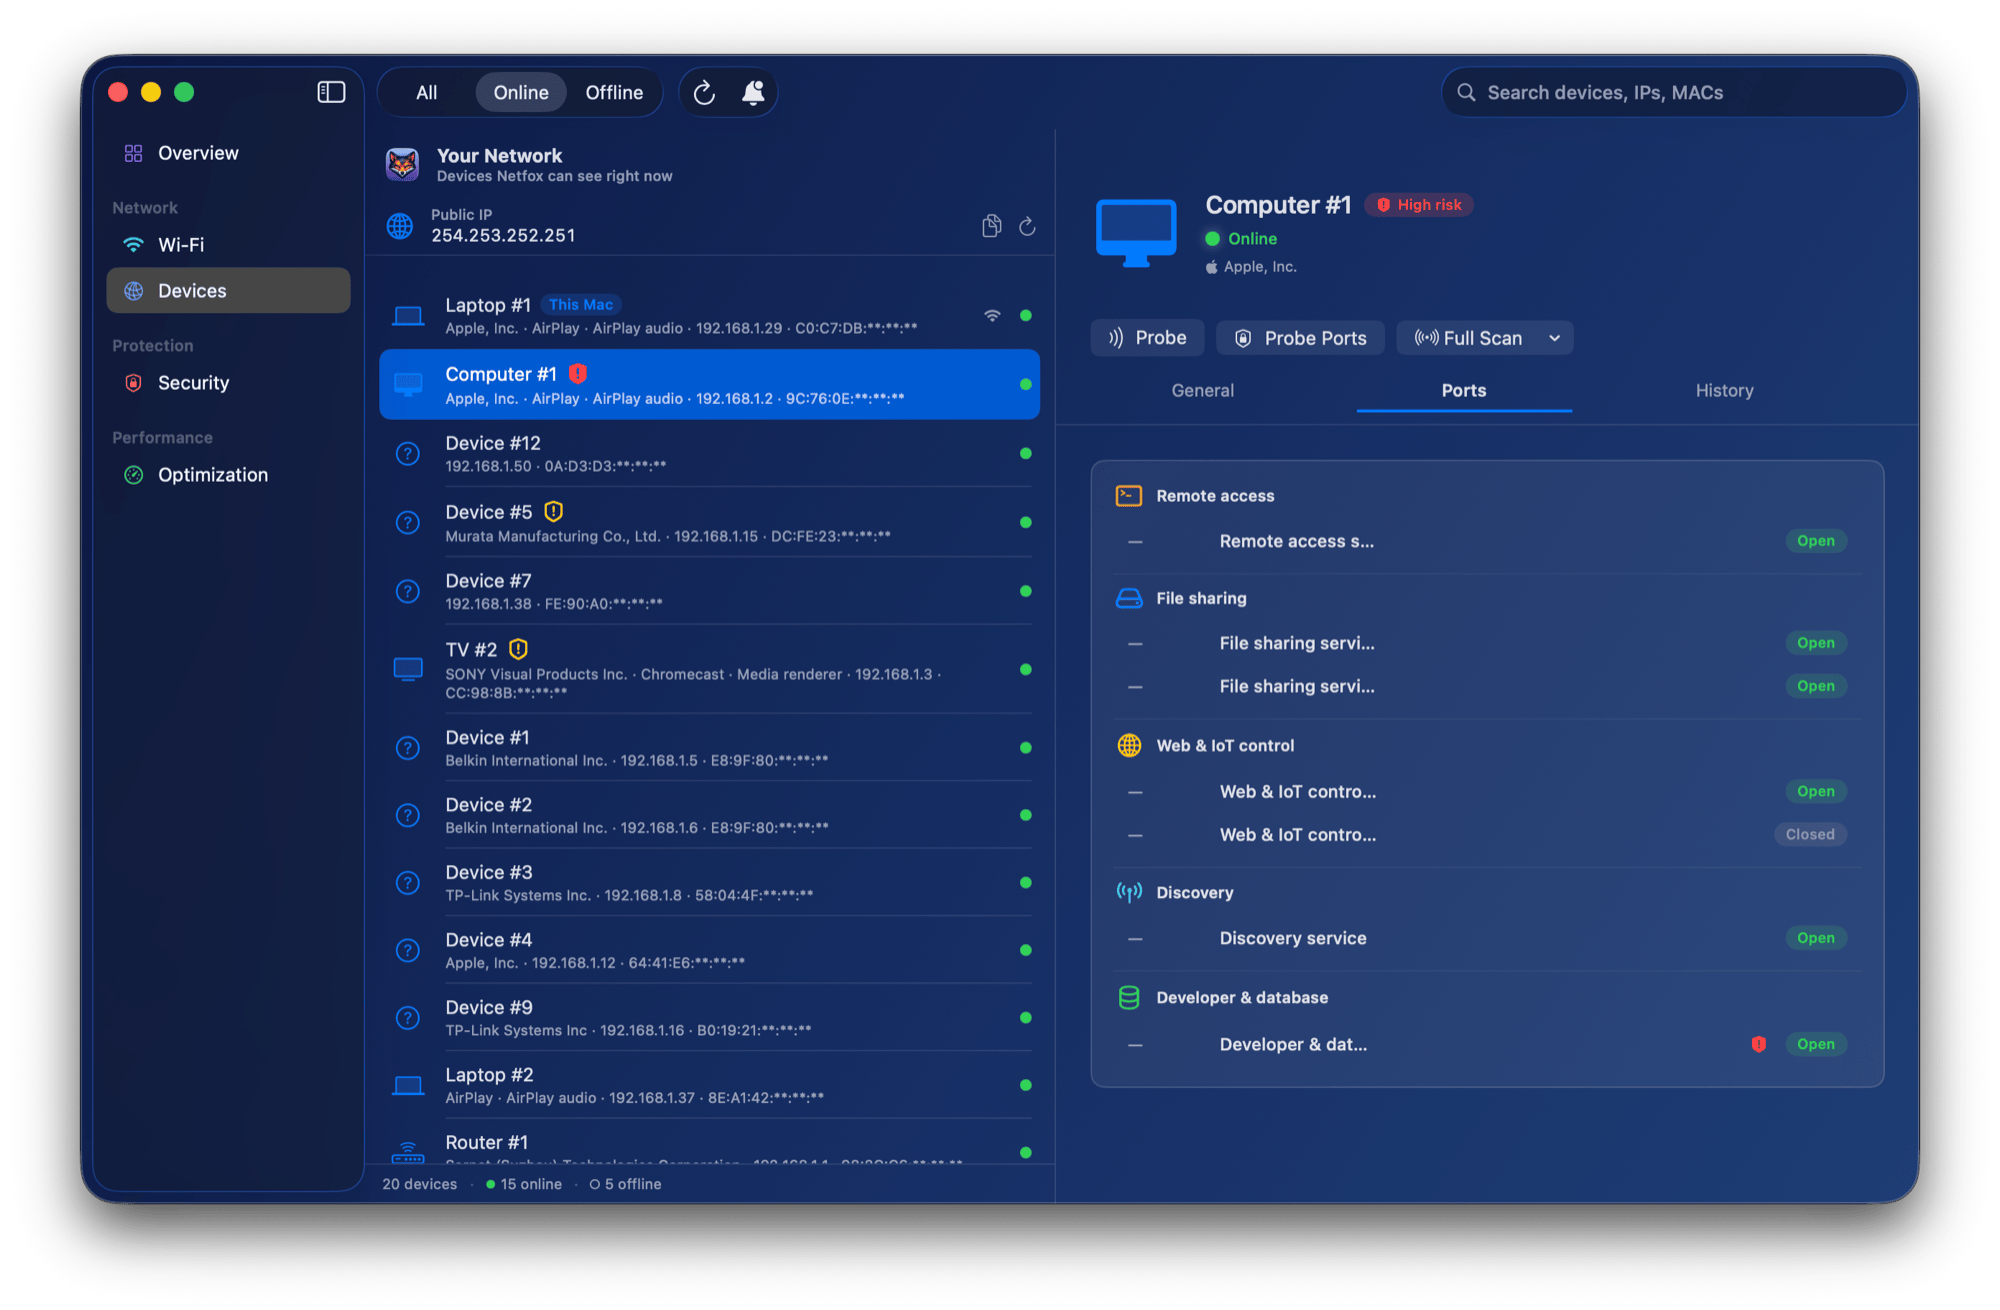
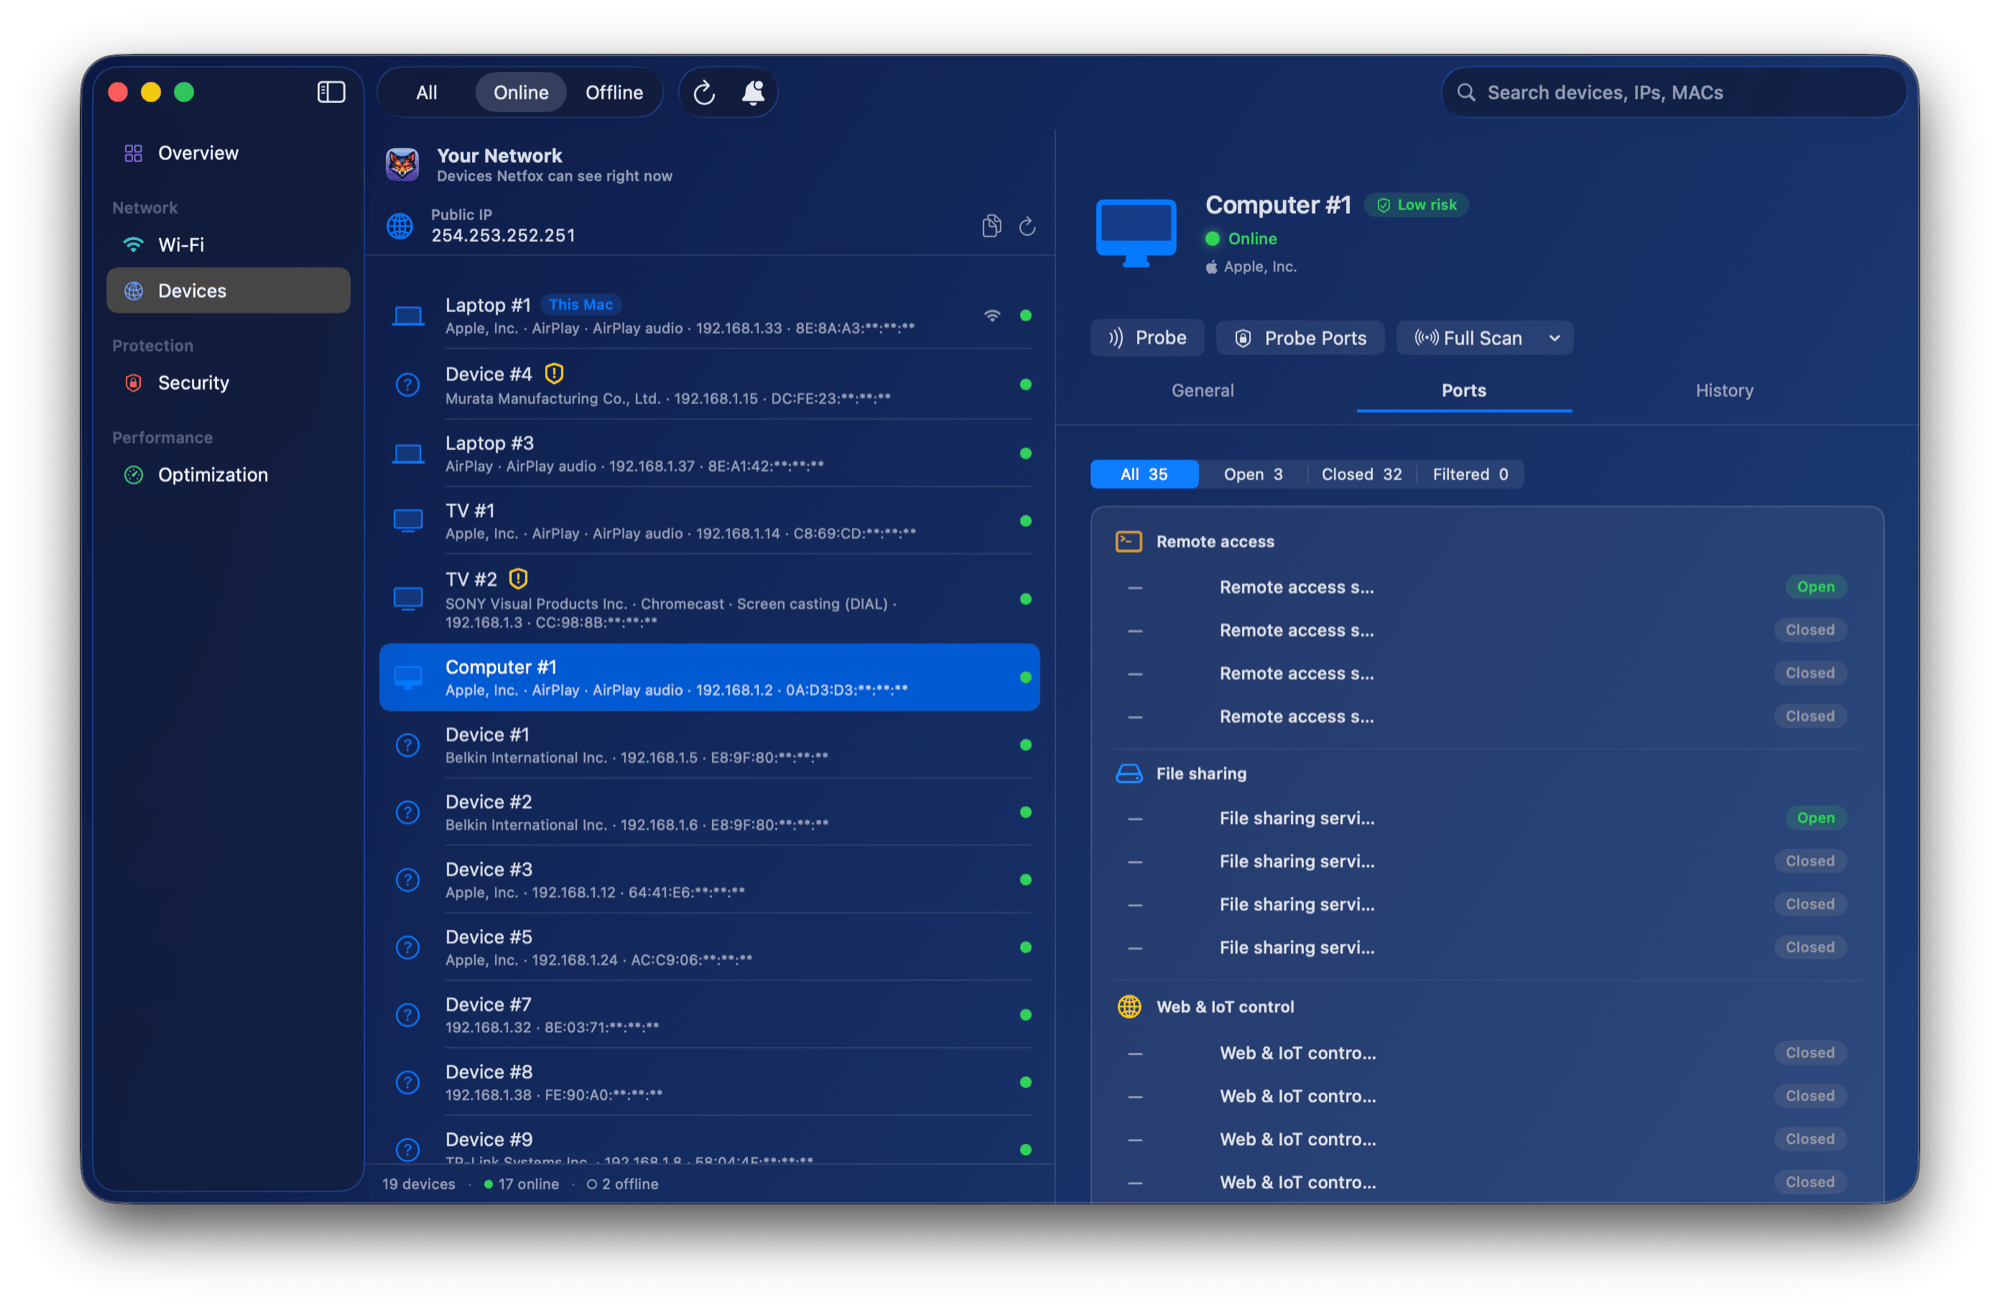
feat(sparkle): publish Netfox v0.16.2 to appcast

diff --git a/public/release-notes/0.16.2.html b/public/release-notes/0.16.2.html
@@ -1,0 +1,104 @@
+<!DOCTYPE html>
+<html lang="en">
+<head>
+<meta charset="utf-8">
+<meta name="viewport" content="width=device-width, initial-scale=1">
+<title>Netfox 0.16.2 — Release Notes</title>
+<style>
+  :root {
+    color-scheme: light dark;
+    --bg: #ffffff;
+    --fg: #1a1a1a;
+    --accent: #f76707;
+    --muted: #6b6b73;
+    --code-bg: #f4f4f5;
+    --border: rgba(0,0,0,0.12);
+  }
+  @media (prefers-color-scheme: dark) {
+    :root {
+      --bg: #1c1c1e;
+      --fg: #ececec;
+      --muted: #9c9ca5;
+      --code-bg: #2c2c2e;
+      --border: rgba(255,255,255,0.14);
+    }
+  }
+  * { box-sizing: border-box; }
+  body {
+    font: 14px/1.55 -apple-system, BlinkMacSystemFont, "SF Pro Text", "Helvetica Neue", sans-serif;
+    color: var(--fg);
+    background: var(--bg);
+    margin: 0 auto;
+    padding: 20px 24px 40px;
+    max-width: 720px;
+  }
+  header.page-header {
+    border-bottom: 1px solid var(--border);
+    padding-bottom: 14px;
+    margin-bottom: 22px;
+  }
+  header.page-header h1 { font-size: 1.7em; margin: 0 0 4px; letter-spacing: -0.02em; }
+  header.page-header .subtitle { color: var(--muted); margin: 0; font-size: 0.92em; }
+  h1, h2, h3, h4 { letter-spacing: -0.01em; margin: 1.5em 0 0.5em; }
+  h1 { font-size: 1.4em; }
+  h2 { font-size: 1.2em; }
+  h3 { font-size: 1em; }
+  a { color: var(--accent); }
+  hr { border: 0; border-top: 1px solid var(--border); margin: 22px 0; }
+  ul, ol { padding-left: 1.4em; }
+  li { margin: 4px 0; }
+  code {
+    font: 0.9em ui-monospace, "SF Mono", Menlo, Consolas, monospace;
+    background: var(--code-bg);
+    padding: 1px 5px;
+    border-radius: 3px;
+  }
+  pre {
+    background: var(--code-bg);
+    padding: 12px 14px;
+    border-radius: 6px;
+    overflow-x: auto;
+    font-size: 0.88em;
+  }
+  pre code { background: transparent; padding: 0; font-size: 1em; }
+  blockquote {
+    margin: 12px 0;
+    padding-left: 12px;
+    border-left: 3px solid var(--border);
+    color: var(--muted);
+  }
+  table { border-collapse: collapse; width: 100%; margin: 12px 0; font-size: 0.95em; }
+  th, td { border: 1px solid var(--border); padding: 6px 10px; text-align: left; }
+  th { background: var(--code-bg); }
+  img { max-width: 100%; }
+</style>
+</head>
+<body>
+<header class="page-header">
+  <h1>Netfox 0.16.2</h1>
+  <p class="subtitle">Release notes</p>
+</header>
+<p>The Ports tab gets a real filter, and the reason it needed one is worth a paragraph.</p>
+<h2>Filter by state</h2>
+<p>A picker above the port list narrows it to <strong>All</strong>, <strong>Open</strong>, <strong>Closed</strong> or <strong>Filtered</strong>, and each segment carries its own count.</p>
+<p>The counts are meant to be read on their own. <em>Filtered 3</em> on a device that answers everything else means something is dropping probes for exactly those three ports — that is a finding before you click anything. <em>Closed 30</em> tells you what a segment will cost you before you pick it.</p>
+<p>It replaces the <strong>Hide filtered ports</strong> switch, which had quietly stopped being useful. That switch was only ever effective because of a bug: before 0.16.0 a port that actively refused a connection was classified as <em>filtered</em>, so on a device that refuses rather than drops, nearly every non-open port was hidden by it and the list stayed short. Once refusals were correctly read as <em>closed</em>, the switch had almost nothing left to hide, and the tab became a wall of Closed rows. Nothing about the filter changed — its input did.</p>
+<h2>Closed and filtered are not the same thing</h2>
+<p>Worth spelling out, since the distinction is what the new segments are for:</p>
+<ul>
+<li><strong>Closed</strong> — the device answered, refusing the connection. Nothing is listening there. A definite answer.</li>
+<li><strong>Filtered</strong> — no answer at all. Something is dropping the packets, and whether a service sits behind it is unknown.</li>
+</ul>
+<p>Closed is a <em>no</em>. Filtered is a <em>silence</em>. A device returning mostly closed ports is being straightforward with you; one returning mostly filtered has a firewall in the way and its real state is hidden.</p>
+<h2>Under the hood</h2>
+<ul>
+<li>The picker only appears when a device actually has more than one state — three empty segments would be worse than no control at all.</li>
+<li>Selecting an empty segment says which segment is empty rather than implying the scan found nothing.</li>
+<li>The four states, the segment titles and the empty-state messages are translated into all six languages. Whole sentences rather than a name substituted into a template: a format string can only carry the grammar its source language has, and English has almost none to lose.</li>
+</ul>
+<h2>Install</h2>
+<p>Download the DMG, drag Netfox to Applications. Existing installs update themselves.</p>
+<h2>Requirements</h2>
+<p>macOS 15.6 or later. Universal (Apple Silicon + Intel). Signed and notarized.</p>
+</body>
+</html>

diff --git a/config/index.ts b/config/index.ts
@@ -88,7 +88,7 @@ export default {
     defaultLanguage: 'en',
   },
   app: {
-    version: '0.16.1',
+    version: '0.16.2',
     minMacOS: '15.0',
     downloadUrl: 'https://github.com/gfazioli/netfox-website/releases/latest',
   },
